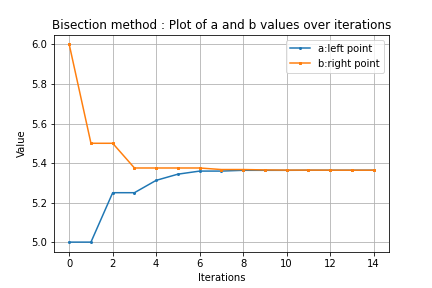
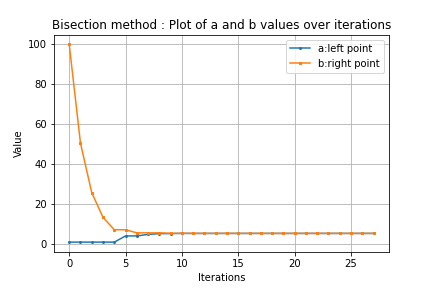
NOV06-02

diff --git a/Team_Projects/Numerical_analysis/Numerical_root_finding/hybrid_bisection+secant.py b/Team_Projects/Numerical_analysis/Numerical_root_finding/hybrid_bisection+secant.py
@@ -32,40 +32,40 @@ def hybrid(f, g, a, b, diff_a_b, max_iter):
     iteration = 0
     x_prime = (a+b)/2 #initiated the first sudo x_prime (not record, not effect) for geting start the first roof
     
-    while (x_prime - (b - ((f(b)*(b-a))/(f(b)-f(a)))) ) > diff_a_b and iteration < max_iter and f(b) - f(a) != 0:
+    while abs(x_prime - (b - ((f(b)*(b-a))/(f(b)-f(a)))) ) > diff_a_b and iteration < max_iter and f(b) - f(a) != 0:
         # Perform secant method first
         x_prime = b - ((f(b)*(b-a))/(f(b)-f(a)))
 
         #Denote iteration
         iteration += 1
-        print("~~iteration :", iteration)
+        #print("~~iteration :", iteration)
 
         #Check for location of new x value
         #First condition checks if new value lies outside of the interval
         if x_prime < a or x_prime>b:
             #Performs bisection to obtain new x value
-            print("bicetion mothod")
+            #print("bicetion mothod")
             x_prime = (b-a)/2.0
 
             #Checks image of new x value
             if f(a) * f(x_prime) < 0:
                 b = x_prime
-                print("a:", a, "b:", x_prime)
+                #print("a:", a, "b:", x_prime)
             else:
                 a = x_prime
-                print("a:", x_prime, "b:", b)
+                #print("a:", x_prime, "b:", b)
 
         else:
             #Checks image of new x value if secant lies within the interval
-            print("secant mothod")
+            #print("secant mothod")
             if f(a)*f(x_prime)<0:
                 b = x_prime
-                print("a:", a, "b:", x_prime)
+                #print("a:", a, "b:", x_prime)
             else:
                 a=x_prime
-                print("a:", x_prime, "b:", b)
+                #print("a:", x_prime, "b:", b)
 
-        print("\n")
+        #print("\n")
     height = g(x_prime)
     return x_prime, iteration, height
 
@@ -76,11 +76,12 @@ def g(c):
     return 1000/(np.pi*c**2)
 
 a = 1
-b = 1000
-diff_a_b = 1e-4
+b = 100
+diff_a_b = 1e-8
 # max_iterations = 100
 #Print final number of iterations required to land within the error
-result = hybrid(f, g, a, b, diff_a_b, 1000)
+result = hybrid(f, g, a, b, diff_a_b, 10000)
 print(result)
+
 
 print(f"The most optimal radius of the can will be {round(result[0],2)} cm and the most optimal height will be  {round(result[2],2)} cm.")

diff --git a/Team_Projects/Numerical_analysis/Numerical_root_finding/hybrid_bisection+secant_example.py b/Team_Projects/Numerical_analysis/Numerical_root_finding/hybrid_bisection+secant_example.py
@@ -33,7 +33,7 @@ def hybrid(f, g, a, b, diff_a_b, max_iter):
     iteration = 0
     x_prime = (a+b)/2 #initiated the first sudo x_prime (not record, not effect) for geting start the first roof
     
-    while (x_prime - (b - ((f(b)*(b-a))/(f(b)-f(a)))) ) > diff_a_b and iteration < max_iter and f(b) - f(a) != 0:
+    while abs(x_prime - (b - ((f(b)*(b-a))/(f(b)-f(a)))) ) > diff_a_b and iteration < max_iter and f(b) - f(a) != 0:
         # Perform secant method first
         x_prime = b - ((f(b)*(b-a))/(f(b)-f(a)))
 
@@ -43,7 +43,7 @@ def hybrid(f, g, a, b, diff_a_b, max_iter):
 
         #Check for location of new x value
         #First condition checks if new value lies outside of the interval
-        if x_prime < a or x_prime>b:
+        if x_prime < a or x_prime > b:
             #Performs bisection to obtain new x value
             print("bicetion mothod")
             x_prime = (b-a)/2.0
@@ -80,12 +80,11 @@ def f(x):
     return (20*x -1) / (19*x)
 def g(x):
     return x
-a = 1
-b = 1000
-diff_a_b = 1e-4
+a = 0.01
+b = 1
+diff_a_b = 1e-20
 # max_iterations = 100
 #Print final number of iterations required to land within the error
 result = hybrid(f, g, a, b, diff_a_b, 1000)
 print(result)
 
-print(f"The most optimal radius of the can will be {round(result[0],2)} cm and the most optimal height will be  {round(result[2],2)} cm.")

diff --git a/Team_Projects/Numerical_analysis/Numerical_root_finding/visualiztion_bisection_method.py b/Team_Projects/Numerical_analysis/Numerical_root_finding/visualiztion_bisection_method.py
@@ -28,7 +28,7 @@ def bisection(f, a, b, diff_a_b, max_iter):
     data_list.append(data_a_b_iter)
     
     
-    while (b - a) > diff_a_b and iteration < max_iter:
+    while abs(b - a) > diff_a_b and iteration < max_iter:
         #midoint is the tentative point can be a or b in next cycle
         midpoint = (a + b) / 2.0
 
@@ -62,12 +62,12 @@ def f(x):
    return 4*np.pi*(x+0.25)+(-2000/(x**2))+(-2*0.25*1000)/(np.pi*x**3)
 
 # Initial interval [a, b] and diff_a_b(tolerance)(== accuray)
-a = 5
-b = 6
-diff_a_b = 1e-4
+a = 1
+b = 100
+diff_a_b = 1e-6
 #max_iterations = 10
 
-result = bisection(f, a, b, diff_a_b, 100)
+result = bisection(f, a, b, diff_a_b, 10000)
 
 # drowing plots in order to check convergence and speed of convergence
 

diff --git a/Team_Projects/Numerical_analysis/Numerical_root_finding/visualiztion_scant_method.py b/Team_Projects/Numerical_analysis/Numerical_root_finding/visualiztion_scant_method.py
@@ -72,15 +72,14 @@ def f(x):
 x_0 = 1
 x_1 = 100
 # The maximum difference between x_n and x_n_1
-diff_a_b = 1e-6
+diff_a_b = 1e-8
 #max_iterations = 10
 
 #Output save in the 'result' variable
-result = secant(f, x_0, x_1, diff_a_b, 1000)
-
+result = secant(f, x_0, x_1, diff_a_b, 10000)
+print(result)
 
 # drowing plots in order to check convergence and speed of convergence
-
 df = result
 
 # Create a line plot for X- # iteration and and Y- 'x_n' valuse (converge to the root)
@@ -93,5 +92,5 @@ plt.legend()
 plt.title('Secant method : Plot of x_n values over iterations')
 plt.grid(True)
 
-#plt.show()
-plt.savefig('Secant_method.png')
+plt.show()
+#plt.savefig('Secant_method.png')

diff --git a/Team_Projects/Numerical_analysis/Numerical_root_finding/basic_bisection_method.py b/Team_Projects/Numerical_analysis/Numerical_root_finding/basic_bisection_method.py
@@ -19,7 +19,7 @@ def bisection(f, a, b, diff_a_b, max_iter):
         return None
 
     iteration = 0
-    while (b - a) > diff_a_b and iteration < max_iter:
+    while abs(b - a) > diff_a_b and iteration < max_iter:
         #midoint is the tentative point can be a or b in next cycle
         midpoint = (a + b) / 2.0
 
@@ -48,7 +48,7 @@ def f(x):
 # Initial interval [a, b] and diff_a_b(tolerance)(== accuray)
 a = 1
 b = 100
-diff_a_b = 1e-4
+diff_a_b = 1e-8
 #max_iterations = 10
 
 result = bisection(f, a, b, diff_a_b, 1000)

diff --git a/Team_Projects/Numerical_analysis/Numerical_root_finding/save_in_dataframe_bisection_method.py b/Team_Projects/Numerical_analysis/Numerical_root_finding/save_in_dataframe_bisection_method.py
@@ -29,7 +29,7 @@ def bisection(f, a, b, diff_a_b, max_iter):
     data_list.append(data_a_b_iter)
     
     
-    while (b - a) > diff_a_b and iteration < max_iter:
+    while abs(b - a) > diff_a_b and iteration < max_iter:
         #midoint is the tentative point can be a or b in next cycle
         midpoint = (a + b) / 2.0
 

diff --git a/Team_Projects/Numerical_analysis/Numerical_root_finding/basic_secant_method.py b/Team_Projects/Numerical_analysis/Numerical_root_finding/basic_secant_method.py
@@ -55,10 +55,10 @@ def f(x):
 # Initial x_0 and x_1
 x_0 = 1
 x_1 = 100
-diff_a_b = 1e-4
+diff_a_b = 1e-8
 #max_iterations = 10
 
-result = secant(f, x_0, x_1, diff_a_b, 1000)
+result = secant(f, x_0, x_1, diff_a_b, 10000)
 print(result)
 
 
